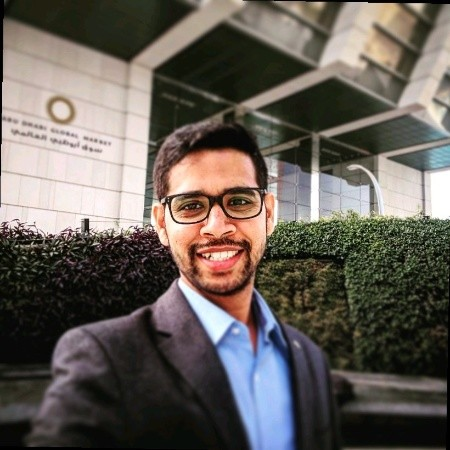
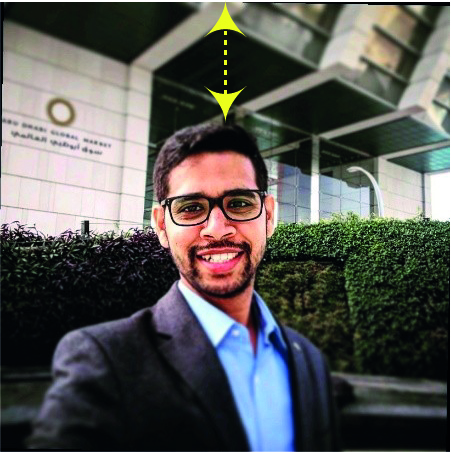
update 5

diff --git a/welcome.js b/welcome.js
@@ -1,7 +1,7 @@
 
-    window.alert("1. Edit texts in the text area & click submit\n2. Choose your image\n3. Drag the Employee's photo to get exact output"+
+    window.alert("1. Edit texts in the text area & click submit\n2. Choose your image\n3. Drag to adjust the Employee's photo to get exact output"+
     "\n4. Click fix button\n5. If you want to adjust again click adjust button and adjust \n6. Once you satisfied with the look then download\n\n"
-    + "***Note: In the uploading image, the space between employee's head and top edge of the image must be atlease 18mm same like below default image" );
+    + "***Note: When uploading an image, please make sure the space between employee's head and top edge of the image in atleast 18mm same like below default image" );
 
 
    
@@ -46,7 +46,7 @@ if (action==1){
           a.href=canva.toDataURL();
           a.download="Welcome" + "_" + EmpName.textContent +".png";
           a.click();
-          document.body.removeChild(a);
+          //document.body.removeChild(a);
           action=2;
           console.log(action);
   })

diff --git a/welcome.css b/welcome.css
@@ -5,7 +5,7 @@
 background-color: #F8F8F8;
 height: 12mm;
 width: 195.5mm;
-margin-left: auto;
+left: 1mm;
 margin: auto;
 display: flex;
 align-items: center;
